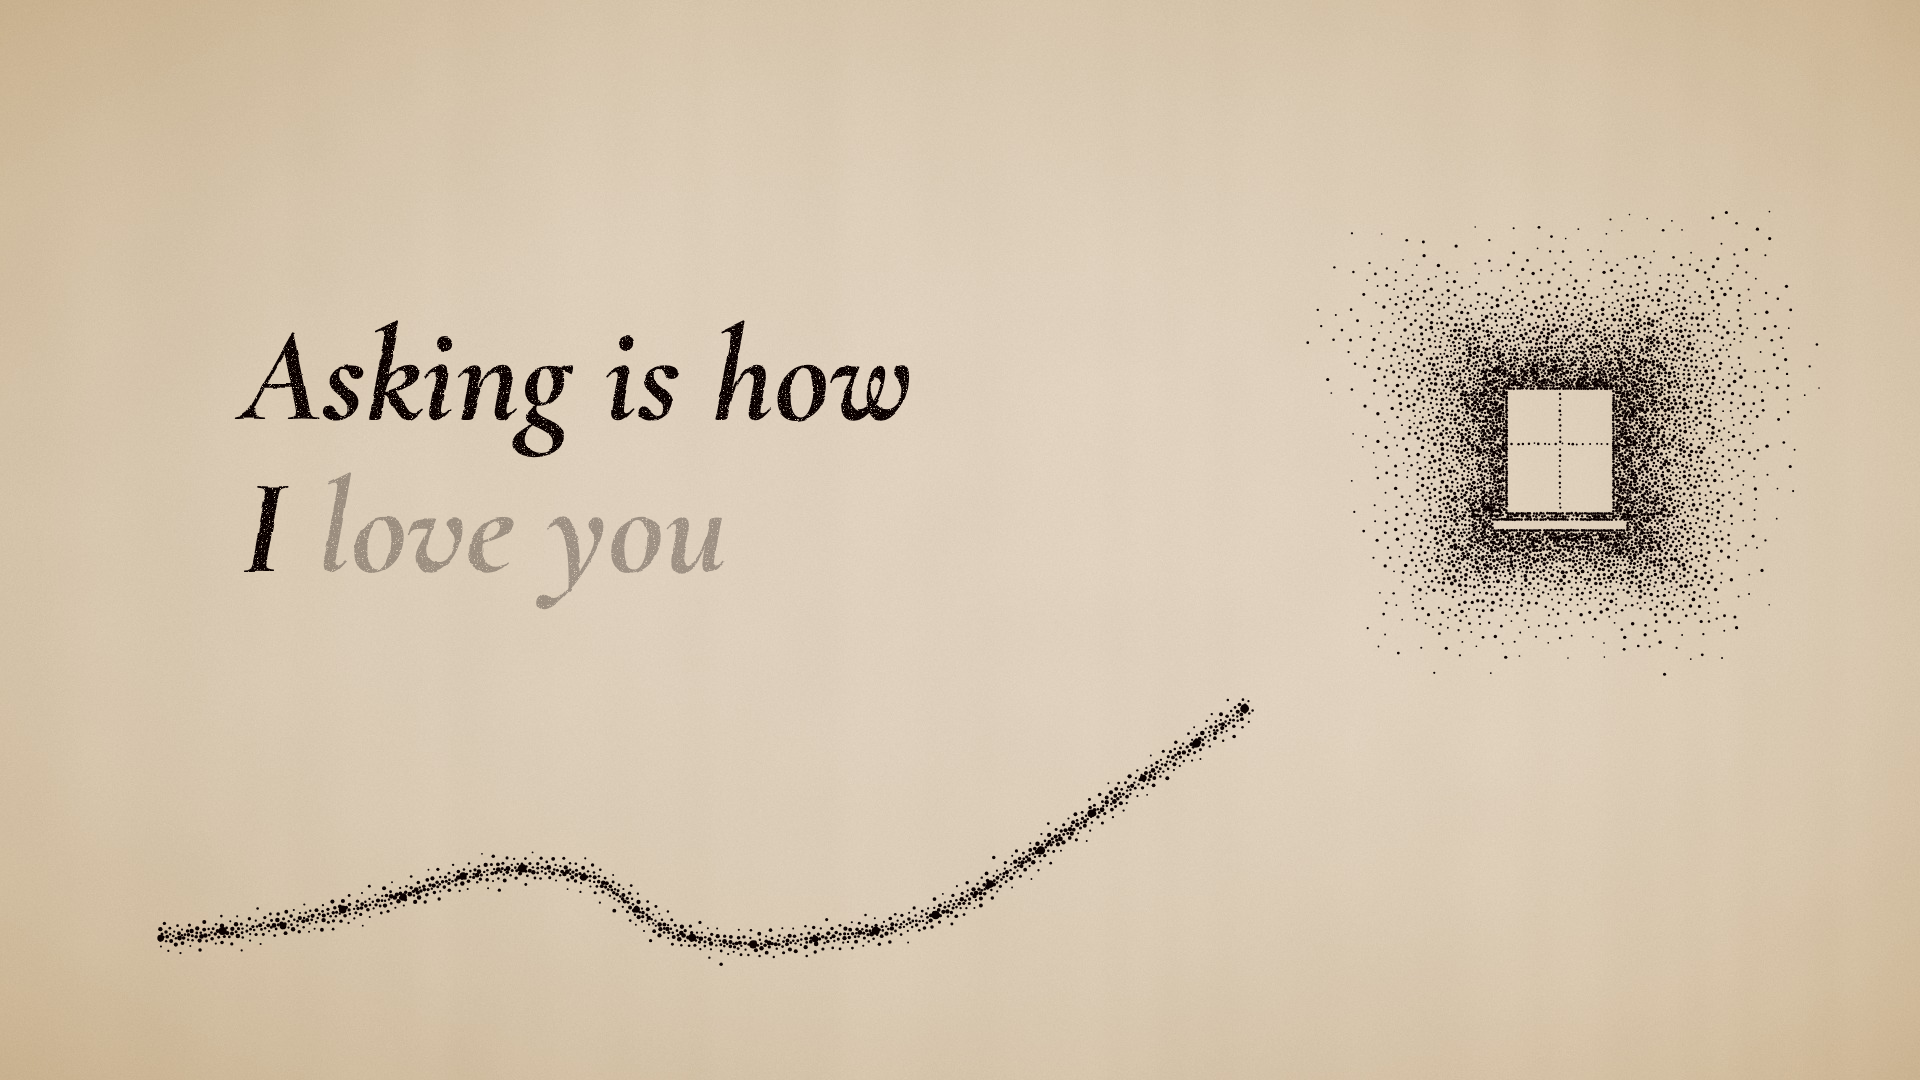
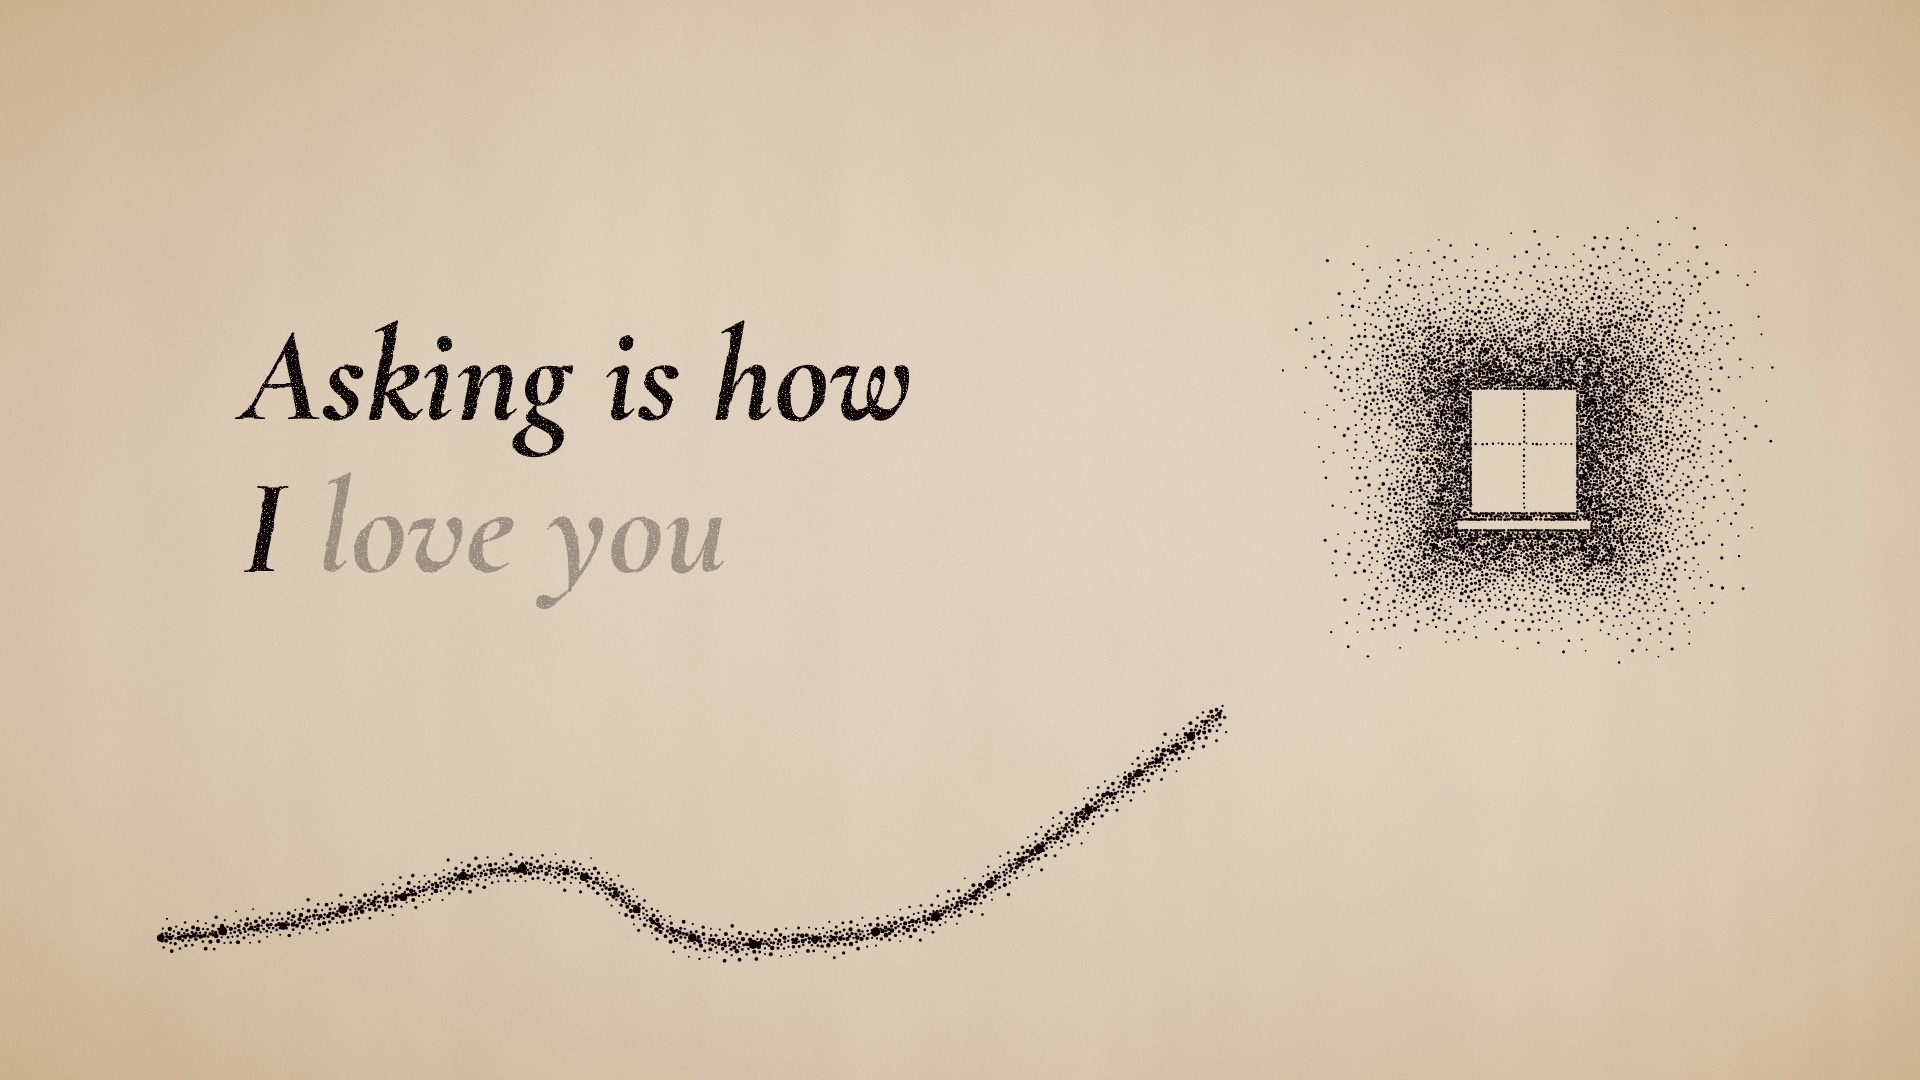
lyric-video run: round 2 comment verdict, mood board work in progress
Claude-Session: https://claude.ai/code/session_012EHT9S5appoyEQdmnDkyR5

diff --git a/video-pipeline/styles/stipple-lyric/stipple.js b/video-pipeline/styles/stipple-lyric/stipple.js
@@ -149,14 +149,14 @@
 
     /* A band of dots along a path, thickest on its centre line.
        d       the path
-       half    half the band's width in px (default 21)
-       tight   distance between dots on the centre line (3.0); loose: at the band's edge (12)
+       half    half the band's width in px (default 22)
+       tight   distance between dots on the centre line (2.8); loose: at the band's edge (12)
        r       [smallest, largest] dot radius ([1.2, 2.5])
        ragged  how uneven the growing end is, in px along the path (16)
        order   [from, to]: the part of the group's 0-1 order this band takes ([0, 1]) */
     trail(g, o) {
       g = el(g);
-      const { d, half = 21, tight = 3.0, loose = 12, r = [1.2, 2.5], seed = 1, ragged = 16, order } = o;
+      const { d, half = 22, tight = 2.8, loose = 12, r = [1.2, 2.5], seed = 1, ragged = 16, order } = o;
       const rand = rng(seed), path = measure(g, d), field = Field(4), dots = [];
       const lanes = 8;
       for (let b = 0; b < lanes; b++) {                           // from the centre line outward, so the middle fills first
@@ -177,11 +177,11 @@
     },
 
     /* Single dots spaced along a path: the first marks of a line before it fills in.
-       every   distance between dots in px (60);  r: [smallest, largest] radius ([3.2, 4.4])
+       every   distance between dots in px (60);  r: [smallest, largest] radius ([3.6, 4.8])
        jitter  how far a dot may sit off the line (2.5);  from, to: the part of the path, 0-1 */
     beads(g, o) {
       g = el(g);
-      const { d, every = 60, r = [3.2, 4.4], jitter = 2.5, seed = 1, from = 0, to = 1, order } = o;
+      const { d, every = 60, r = [3.6, 4.8], jitter = 2.5, seed = 1, from = 0, to = 1, order } = o;
       const rand = rng(seed), path = measure(g, d), dots = [];
       for (let u = from * path.len; u <= to * path.len + 0.01; u += every) {
         const p = path.at(u), a = rand() * Math.PI * 2, j = rand() * jitter;
@@ -196,11 +196,11 @@
        reach        how far the dots scatter from the edge, px (175)
        tight        distance between dots at the edge (2.3); loose: at the reach (17)
        uneven       how far the outline wanders, 0-1 (0.4)
-       square       0 a round cloud, 1 a cloud with the rectangle's own corners (0.6)
+       square       0 a round cloud, 1 a cloud with the rectangle's own corners (0.45)
        r            [smallest, largest] dot radius ([1.1, 2.2]) */
     halo(g, o) {
       g = el(g);
-      const { x, y, w, h, bare = [], reach = 175, tight = 2.3, loose = 17, uneven = 0.4, square = 0.6,
+      const { x, y, w, h, bare = [], reach = 175, tight = 2.3, loose = 17, uneven = 0.4, square = 0.45,
               r = [1.1, 2.2], seed = 1, order } = o;
       const rand = rng(seed), wob = ringNoise(rand, 5), field = Field(4), dots = [];
       const rects = [[x, y, w, h]].concat(bare);
@@ -215,12 +215,12 @@
         }
         return best;
       };
-      const gapAt = (far) => tight * Math.pow(loose / tight, Math.pow(far, 1.25));    // stays dark for a while, then opens
+      const gapAt = (far) => tight * Math.pow(loose / tight, Math.pow(far, 1.5));     // stays dark for a while, then opens
       const drop = (px, py) => {
         const dd = dist(px, py), rr = pick(rand, r);
         if (dd < rr + 0.8) return;                                            // never on the bare paper
         const far = dd / (reach * (1 + uneven * wob(Math.atan2(py - cy, px - cx))));
-        if (far > 1 || rand() < Math.pow(far, 1.6) * 0.92) return;            // thins to scattered points
+        if (far > 1 || rand() < Math.pow(far, 1.2)) return;                   // thins to scattered points, then nothing
         if (!field.free(px, py, gapAt(far))) return;
         field.add(px, py);
         dots.push({ x: px, y: py, r: rr * (1 - 0.3 * far), k: (rand() * 0.75 + far * 0.6) / 1.35 });

diff --git a/video-pipeline/styles/stipple-lyric/example.html b/video-pipeline/styles/stipple-lyric/example.html
@@ -1,0 +1,53 @@
+<!doctype html>
+<html lang="en">
+<head>
+<meta charset="utf-8">
+<title>Stipple-lyric example</title>
+<!-- A worked example of the stipple-lyric style on film.js: one sheet, two
+     lyric lines lit word by word, a trail of dots that grows under them and a
+     square of light that the dots gather round.
+     Preview: open this file with ?play, or ?t=4.2 to stop on a moment.
+     Render:  node ../../tools/render.js example.html --out /tmp/example.mp4 -->
+<link rel="stylesheet" href="stipple.css">
+</head>
+<body>
+<main id="stage">
+
+  <!-- One shot for the whole sheet. Every time below is seconds from its start. -->
+  <section class="shot" id="sheet">
+    <svg viewBox="0 0 1920 1080">
+      <!-- pairs of "time share": the drawing grows between them and rests where the numbers repeat -->
+      <g class="stipple" id="steps" data-grow="0.2 0, 0.9 0.07, 2.0 0.2, 4.6 0.62, 7.4 1"></g>
+      <g class="stipple" id="trail" data-grow="0.9 0, 3.9 0.38, 4.4 0.4, 7.6 1"></g>
+      <g class="stipple" id="lamp"  data-grow="4.6 0, 5.4 0.3, 8.0 1"></g>
+    </svg>
+
+    <!-- line 1: there from the first frame, lifts off as line 2 starts -->
+    <p class="lyric" data-out="4.2 4.2">
+      <span class="row"><span class="w" data-at="1.00">Slow</span> <span class="w" data-at="1.38">down</span></span>
+      <span class="row"><span class="w" data-at="1.92">on</span> <span class="w" data-at="2.10">the</span> <span class="w" data-at="2.34">hill</span></span>
+    </p>
+
+    <!-- line 2: the one red word starts faint, turns full red when it is spoken, and swells once -->
+    <p class="lyric" data-in="4.2 4.2">
+      <span class="row"><span class="w" data-at="4.60">I&rsquo;ll</span> <span class="w accent" data-at="4.92" data-pulse="4.92">wait</span></span>
+      <span class="row"><span class="w" data-at="5.50" data-out="7.2 7.6">by</span> <span class="w" data-at="5.70" data-out="7.2 7.6">the</span> <span class="w" data-at="5.94" data-out="7.2 7.6">gate</span></span>
+    </p>
+  </section>
+
+</main>
+
+<script src="stipple.js"></script>
+<script src="../../runtime/film.js"></script>
+<script>
+  const PATH = 'M170 930 C330 936 470 860 640 880 C800 900 860 960 1010 930 C1140 904 1250 760 1420 640';
+  Stipple.beads('#steps', { d: PATH, every: 64, seed: 2 });
+  Stipple.trail('#trail', { d: PATH, seed: 7 });
+  Stipple.halo('#lamp', { x: 1452, y: 470, w: 92, h: 110, reach: 160, seed: 12 });
+
+  Film.setup({ width: 1920, height: 1080, fps: 24 });
+  Film.shot({ id: 'sheet', dur: 8.4, update: (p, t, el) => Stipple.update(el, t) });
+  Film.ready();
+</script>
+</body>
+</html>

diff --git a/video-pipeline/runs/lyric-video/04-moodboard/frames.html b/video-pipeline/runs/lyric-video/04-moodboard/frames.html
@@ -23,7 +23,7 @@
   <section class="shot" id="title">
     <svg viewBox="0 0 1920 1080">
       <g class="stipple road" data-share="0"></g>
-      <g class="stipple steps" data-share="0.085"></g>
+      <g class="stipple steps" data-share="0.09"></g>
       <g class="stipple window" data-share="0"></g>
     </svg>
     <p class="lyric">
@@ -90,9 +90,9 @@
 <script src="../../../runtime/film.js"></script>
 <script>
   /* The drawing, once. The producer copies these three calls unchanged. */
-  const ROAD = 'M160 936 C250 936 350 912 440 884 C520 859 590 864 628 902 C656 930 700 948 760 944 C850 938 925 929 985 888 L1490 542';
-  const PANE = { x: 1508, y: 390, w: 104, h: 122 };
-  const SILL = [1494, 521, 132, 8];
+  const ROAD = 'M160 936 C250 936 350 912 440 884 C520 859 590 864 628 902 C656 930 700 948 760 944 C850 938 925 932 985 888 L1454 542';
+  const PANE = { x: 1472, y: 390, w: 104, h: 122 };
+  const SILL = [1458, 521, 132, 8];
   function draw(shot) {
     Stipple.trail(shot.querySelector('.road'), { d: ROAD, seed: 5 });
     Stipple.beads(shot.querySelector('.steps'), { d: ROAD, every: 62, seed: 9 });
